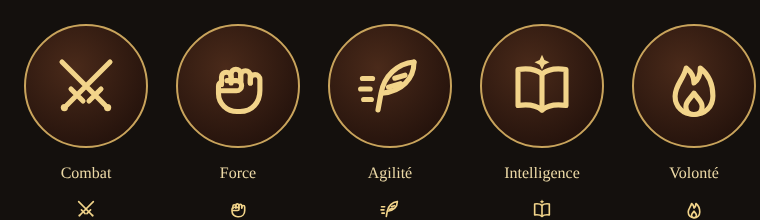
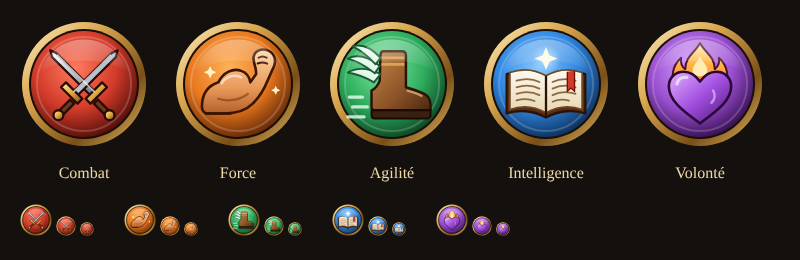
Emblèmes de caractéristiques en couleur (Combat rouge, Force orange, Agilité verte, Intelligence bleue, Volonté violette)
Médaillon doré + pictogramme détaillé (épées croisées, bras qui fait le biceps, botte ailée,
grimoire ouvert, cœur enflammé), toujours accompagné du nom : choix de dialogue, fenêtre de dé,
fiches des héros, montée de niveau, éditeur.

Claude-Session: https://claude.ai/code/session_01LRtr7vt3nEQikA3xZdRZbh

diff --git a/js/core/stat-icons.js b/js/core/stat-icons.js
@@ -1,0 +1,93 @@
+// Emblèmes colorés des caractéristiques : médaillon métallique + pictogramme détaillé, une couleur par stat.
+// statBadge('force', 28) → chaîne SVG autonome (dégradés à identifiants uniques).
+export const STAT_COLORS = {
+  combat:       { main: '#d23b2a', light: '#ff7a5e', dark: '#4a0b06', label: 'Combat' },
+  force:        { main: '#e8781e', light: '#ffb25a', dark: '#5a2204', label: 'Force' },
+  agilite:      { main: '#2fae5e', light: '#7be8a0', dark: '#08401f', label: 'Agilité' },
+  intelligence: { main: '#2f86e0', light: '#86c6ff', dark: '#0a2850', label: 'Intelligence' },
+  volonte:      { main: '#9a4fd0', light: '#d7a2ff', dark: '#2e0a48', label: 'Volonté' },
+};
+let uid = 0;
+
+/** Pictogrammes (viewBox 64×64, centre 32,32). u = préfixe unique des dégradés. */
+const ART = {
+  combat: u => `
+    <g stroke="#2a0a06" stroke-width="1.4" stroke-linejoin="round">
+      <path d="M15 13 L40 38 L37.5 40.5 L12.5 15.5 L11.5 11.5 Z" fill="url(#${u}steel)"/>
+      <path d="M49 13 L24 38 L26.5 40.5 L51.5 15.5 L52.5 11.5 Z" fill="url(#${u}steel)"/>
+      <path d="M33 41 L43 31 L46 34 L36 44 Z" fill="url(#${u}gold)"/>
+      <path d="M31 41 L21 31 L18 34 L28 44 Z" fill="url(#${u}gold)"/>
+      <path d="M40.5 41.5 L47 48 L44.5 50.5 L38 44 Z" fill="#6b3a1c"/>
+      <path d="M23.5 41.5 L17 48 L19.5 50.5 L26 44 Z" fill="#6b3a1c"/>
+      <circle cx="47.6" cy="51" r="3" fill="url(#${u}gold)"/><circle cx="16.4" cy="51" r="3" fill="url(#${u}gold)"/>
+    </g>
+    <path d="M15.5 14 L38.5 37" stroke="#fff" stroke-opacity=".7" stroke-width="1"/><path d="M48.5 14 L25.5 37" stroke="#fff" stroke-opacity=".7" stroke-width="1"/>`,
+  force: u => `
+    <path d="M10 46 C10 38 14 33 20 31 C23 25 29 22 34 24 C37 25 39 28 39.5 31 L43 26 C43.5 22 41 19 41.5 15.5 C42 12 46 10 50 11.5 C54 13 55.5 17 54 21 L50 30 C48 35 45 40 41 44 C37 48 31 50 24 50 L14 50 C11.8 50 10 48.4 10 46 Z"
+      fill="url(#${u}skin)" stroke="#3a1504" stroke-width="1.6" stroke-linejoin="round"/>
+    <path d="M22 31.5 C25 27 30 26 34 28" fill="none" stroke="#fff" stroke-opacity=".55" stroke-width="1.6" stroke-linecap="round"/>
+    <path d="M44.5 16 C46 15 48 15 49.5 16 M44 19.5 C45.8 18.6 48 18.7 49.8 19.6" fill="none" stroke="#3a1504" stroke-width="1.2" stroke-linecap="round"/>
+    <path d="M20 41 C26 43 33 42 38 38" fill="none" stroke="#7a3208" stroke-opacity=".55" stroke-width="1.4" stroke-linecap="round"/>
+    <path d="M12 50 h16" stroke="#3a1504" stroke-width="1.6"/>
+    <g fill="#fff4c8"><path d="M15 21 l1.2 2.6 2.6 1.2-2.6 1.2-1.2 2.6-1.2-2.6-2.6-1.2 2.6-1.2z"/><path d="M55 33 l.9 1.9 1.9.9-1.9.9-.9 1.9-.9-1.9-1.9-.9 1.9-.9z"/></g>`,
+  agilite: u => `
+    <g stroke-linecap="round" fill="none" stroke="#e8fff0" stroke-opacity=".8" stroke-width="2"><path d="M6 40 h8"/><path d="M8 46 h9"/><path d="M5 52 h10"/></g>
+    <path d="M27 12 h11 c1.5 0 2.5 1 2.5 2.5 V34 c3 1 9 2.5 12 4.5 c2.5 1.6 3 4.5 3 7 V48 H22 c-1.5 0-2.5-1-2.5-2.5 V36 c2-1 4-3 5-6 L25 14.5 C25 13 25.8 12 27 12 Z"
+      fill="url(#${u}leather)" stroke="#2a1408" stroke-width="1.5" stroke-linejoin="round"/>
+    <path d="M19.5 48 h36 v3 c0 1.2-1 2-2 2 h-32 c-1.2 0-2-.8-2-2 z" fill="#3a2010" stroke="#1a0a04" stroke-width="1.2"/>
+    <path d="M25.5 16 h14 M25.5 20 h14" stroke="#d9a35a" stroke-width="1.6"/>
+    <path d="M41 36 c3.5 1 7 2 9.5 3.5" fill="none" stroke="#ffd9a0" stroke-opacity=".6" stroke-width="1.2"/>
+    <g stroke="#1d5a34" stroke-width="1.2" stroke-linejoin="round">
+      <path d="M25 26 C17 22 10 22 5 25 C11 26 16 28 21 31 Z" fill="url(#${u}wing)"/>
+      <path d="M24.5 21 C17 15 10 14 5 16.5 C11 18 16 21 21.5 25.5 Z" fill="url(#${u}wing)"/>
+      <path d="M25 16 C19 9.5 13 7.5 8 9 C13 11.5 17.5 15 22 20 Z" fill="url(#${u}wing)"/>
+    </g>`,
+  intelligence: u => `
+    <circle cx="32" cy="17" r="9" fill="url(#${u}glow)"/>
+    <path d="M32 9.5 l2 5 5 2-5 2-2 5-2-5-5-2 5-2z" fill="#fffbe6"/>
+    <path d="M8 26 C15 23.5 24 24 32 28.5 C40 24 49 23.5 56 26 V50 C49 47.5 40 48 32 52.5 C24 48 15 47.5 8 50 Z" fill="#5b2f14" stroke="#2a1206" stroke-width="1.4" stroke-linejoin="round"/>
+    <path d="M10 25 C17 22.5 25 23 32 27 V49.5 C25 45.5 17 45 10 47.5 Z" fill="url(#${u}page)" stroke="#6b4a24" stroke-width="1"/>
+    <path d="M54 25 C47 22.5 39 23 32 27 V49.5 C39 45.5 47 45 54 47.5 Z" fill="url(#${u}page)" stroke="#6b4a24" stroke-width="1"/>
+    <g stroke="#8a6a44" stroke-width="1.1" stroke-linecap="round" fill="none">
+      <path d="M14 30 c5-1.5 10-1.2 14 .8 M14 34 c5-1.5 10-1.2 14 .8 M14 38 c5-1.5 10-1.2 14 .8 M14 42 c4-1.2 8-1 11 .4"/>
+    </g>
+    <g stroke="#8a6a44" stroke-width="1.1" stroke-linecap="round" fill="none"><path d="M36 30.8 c4-2 9-2.3 14-.8 M36 34.8 c4-2 9-2.3 14-.8 M36 38.8 c4-2 9-2.3 14-.8 M36 42.8 c3-1.4 7-1.6 10-.6"/></g>
+    <path d="M45 24.5 v12 l2.2-2 2.2 2 v-12.8" fill="#d23b2a" stroke="#6a1208" stroke-width=".8"/>
+    <path d="M32 27 V52.5" stroke="#2a1206" stroke-width="1.4"/>`,
+  volonte: u => `
+    <path d="M32 7 C35 13 41 15 41 23 C43.5 21 44 18.5 43.5 16 C49 21 50 28 47 33 L17 33 C14 28 15 21 20.5 16 C20 19 21 21.5 23 23 C23 15 29 13 32 7 Z" fill="url(#${u}fire)" stroke="#4a0f2a" stroke-width="1.2" stroke-linejoin="round"/>
+    <path d="M32 15 C33.5 19 37 20.5 36.5 25 C35 28 29 28 27.5 25 C27 21 30.5 19 32 15 Z" fill="#fff3c0" opacity=".9"/>
+    <path d="M32 56 C24 50 13 43 13 33.5 C13 28 17 24.5 22 24.5 C26 24.5 29.5 27 32 30.5 C34.5 27 38 24.5 42 24.5 C47 24.5 51 28 51 33.5 C51 43 40 50 32 56 Z" fill="url(#${u}heart)" stroke="#2a0838" stroke-width="1.6" stroke-linejoin="round"/>
+    <path d="M18 32 C18.5 29 21 27.5 24 28" fill="none" stroke="#fff" stroke-opacity=".6" stroke-width="2" stroke-linecap="round"/>
+    <path d="M40 36 C41.5 38.5 41 41.5 39 43.5" fill="none" stroke="#ffe6ff" stroke-opacity=".5" stroke-width="1.6" stroke-linecap="round"/>`,
+};
+
+/** Emblème complet : médaillon doré, fond coloré, pictogramme, reflet. */
+export function statBadge(stat, size = 24, { title = true } = {}) {
+  const c = STAT_COLORS[stat]; if (!c) return '';
+  const u = `sb${++uid}_`;
+  return `<svg class="stat-badge sb-${stat}" width="${size}" height="${size}" viewBox="0 0 64 64" role="img" aria-label="${c.label}" xmlns="http://www.w3.org/2000/svg">${title ? `<title>${c.label}</title>` : ''}
+  <defs>
+    <radialGradient id="${u}bg" cx="42%" cy="35%" r="70%"><stop offset="0" stop-color="${c.light}"/><stop offset=".55" stop-color="${c.main}"/><stop offset="1" stop-color="${c.dark}"/></radialGradient>
+    <linearGradient id="${u}rim" x1="0" y1="0" x2="1" y2="1"><stop offset="0" stop-color="#fff2c2"/><stop offset=".35" stop-color="#d9a64e"/><stop offset=".7" stop-color="#7a4f16"/><stop offset="1" stop-color="#e8c06a"/></linearGradient>
+    <linearGradient id="${u}steel" x1="0" y1="0" x2="1" y2="1"><stop offset="0" stop-color="#ffffff"/><stop offset=".5" stop-color="#b9c4cf"/><stop offset="1" stop-color="#5d6b78"/></linearGradient>
+    <linearGradient id="${u}gold" x1="0" y1="0" x2="1" y2="1"><stop offset="0" stop-color="#fff0b0"/><stop offset=".5" stop-color="#e0a83c"/><stop offset="1" stop-color="#7a4a10"/></linearGradient>
+    <linearGradient id="${u}skin" x1="0" y1="0" x2="0" y2="1"><stop offset="0" stop-color="#ffd2a0"/><stop offset=".6" stop-color="#e89a5a"/><stop offset="1" stop-color="#b4602a"/></linearGradient>
+    <linearGradient id="${u}leather" x1="0" y1="0" x2="1" y2="1"><stop offset="0" stop-color="#c88a4a"/><stop offset=".6" stop-color="#8a5226"/><stop offset="1" stop-color="#4a2810"/></linearGradient>
+    <linearGradient id="${u}wing" x1="1" y1="0" x2="0" y2="1"><stop offset="0" stop-color="#ffffff"/><stop offset="1" stop-color="#b8f0cc"/></linearGradient>
+    <linearGradient id="${u}page" x1="0" y1="0" x2="0" y2="1"><stop offset="0" stop-color="#fffaf0"/><stop offset="1" stop-color="#e8d6b0"/></linearGradient>
+    <radialGradient id="${u}glow"><stop offset="0" stop-color="#ffffff" stop-opacity=".95"/><stop offset=".5" stop-color="#9fd4ff" stop-opacity=".6"/><stop offset="1" stop-color="#9fd4ff" stop-opacity="0"/></radialGradient>
+    <linearGradient id="${u}fire" x1="0" y1="1" x2="0" y2="0"><stop offset="0" stop-color="#ff7a2a"/><stop offset=".5" stop-color="#ffb347"/><stop offset="1" stop-color="#fff0a0"/></linearGradient>
+    <linearGradient id="${u}heart" x1="0" y1="0" x2="1" y2="1"><stop offset="0" stop-color="#e2b2ff"/><stop offset=".5" stop-color="#a24fe0"/><stop offset="1" stop-color="#4a1470"/></linearGradient>
+    <linearGradient id="${u}gloss" x1="0" y1="0" x2="0" y2="1"><stop offset="0" stop-color="#fff" stop-opacity=".35"/><stop offset="1" stop-color="#fff" stop-opacity="0"/></linearGradient>
+  </defs>
+  <circle cx="32" cy="32" r="31" fill="url(#${u}rim)"/>
+  <circle cx="32" cy="32" r="27.5" fill="#1a0e06"/>
+  <circle cx="32" cy="32" r="26.5" fill="url(#${u}bg)"/>
+  <circle cx="32" cy="32" r="23.5" fill="none" stroke="#fff" stroke-opacity=".18" stroke-width="1"/>
+  <g transform="translate(32 32) scale(.82) translate(-32 -32)">${ART[stat](u)}</g>
+  <path d="M10 26 A23 23 0 0 1 54 26 A30 18 0 0 0 10 26 Z" fill="url(#${u}gloss)"/>
+</svg>`;
+}
+/** Emblème + nom (« comprendre direct ») */
+export const statChip = (stat, value = null, size = 20) => `<span class="stat-chip sc-${stat}" title="${STAT_COLORS[stat]?.label || stat}">${statBadge(stat, size, { title: false })}<b>${STAT_COLORS[stat]?.label || stat}</b>${value != null ? `<em>${value}</em>` : ''}</span>`;

diff --git a/js/core/ui.js b/js/core/ui.js
@@ -1,5 +1,6 @@
 // HUD commun : barre du haut, menu de test, toasts, FPS, barre de groupe, aide, chargement.
 import { STATS } from './stats.js';
+import { statBadge, statChip, STAT_COLORS } from './stat-icons.js';
 import { figureSVG } from './art.js';
 import { icon, ICON_NAMES } from './icons.js';
 const ic = n => (ICON_NAMES.includes(n) ? icon(n) : (n ?? ''));
@@ -170,7 +171,7 @@ export function createUI({ title, subtitle }) {
       return new Promise(res => {
         const $ = q => dice.querySelector(q);
         let t = null, u = null, done = false, spent = 0, chance = base, crit = 1;
-        $('.d100-label').textContent = label; $('.d100-detail').innerHTML = (stat && ICON_NAMES.includes(stat) ? icon(stat) + ' ' : '') + detail;
+        $('.d100-label').innerHTML = (STAT_COLORS[stat] ? statBadge(stat, 30) + ' ' : '') + `<span>${label}</span>`; $('.d100-detail').textContent = detail;
         dice.classList.toggle('noboost', !boosts);
         const setTarget = () => {
           chance = Math.min(95, base + spent * 10); crit = Math.max(1, Math.floor(chance / 5));
@@ -362,7 +363,7 @@ export function createUI({ title, subtitle }) {
       return new Promise(res => {
         modal.innerHTML = `<div class="lp-card lu-card" style="--c:${hero.color}"><div class="lu-head"><div class="pimg" style="--c:${hero.color}">${figureSVG(hero.kind, hero.color, { portrait: true })}</div>
           <div><h3>${hero.name} — niveau supérieur !</h3><small>Choisissez 1 amélioration (définitive pour la campagne).</small></div></div>
-          <h4>+5 % à une compétence</h4><div class="lu-row">${skills.map(k => `<button class="lp-act" data-k="${k.id}"><b>${ICON_NAMES.includes(k.id) ? icon(k.id) + ' ' : ''}${k.name}</b><small>${k.value} % → ${k.value + 5} %</small></button>`).join('')}</div>
+          <h4>+5 % à une compétence</h4><div class="lu-row">${skills.map(k => `<button class="lp-act" data-k="${k.id}"><b>${STAT_COLORS[k.id] ? statBadge(k.id, 22) + ' ' : ''}${k.name}</b><small>${k.value} % → ${k.value + 5} %</small></button>`).join('')}</div>
           <h4>ou un avantage</h4><div class="lp-list">${perks.map(p2 => `<button class="lp-act" data-p="${p2.id}"><span class="lp-ic">${icon('boost')}</span><span><b>${p2.name}</b><small>${p2.desc}</small></span></button>`).join('')}</div></div>`;
         modal.classList.add('open', 'wide');
         modal.querySelectorAll('[data-k]').forEach(b2 => b2.onclick = () => { modal.classList.remove('open', 'wide'); sfx.success(); res({ skill: b2.dataset.k }); });
@@ -399,8 +400,8 @@ export function createUI({ title, subtitle }) {
             <div class="ps-list">${heroes.map(hh => { const pr = progress[hh.id]; return `<button class="ps-hero ${sel.has(hh.id) ? 'on' : ''}" data-h="${hh.id}" style="--c:${hh.color}">
               <div class="pimg" style="--c:${hh.color}">${figureSVG(hh.kind, hh.color, { portrait: true })}</div>
               <b>${hh.name}${pr?.level > 1 ? ` <span class="lvl">niv. ${pr.level}</span>` : ''}</b><small>${hh.role}</small>
-              <span class="ps-stats">${icon('heart')} ${hh.hp} · ${icon('attack')} ${hh.skills.combat} % · ${icon('move')} ${hh.move}</span>
-              <span class="ps-stats ps-attrs">${Object.entries(STATS).map(([k, s]) => `<span title="${s.name}">${icon(k)} ${hh.skills[k] ?? '—'}</span>`).join('')}</span>
+              <span class="ps-stats">${icon('heart')} ${hh.hp} PV · ${statBadge('combat', 15)} ${hh.skills.combat} % · ${icon('move')} ${hh.move}</span>
+              <span class="ps-attrs">${Object.keys(STATS).map(k => statChip(k, hh.skills[k] ?? '—', 16)).join('')}</span>
               <span class="ps-talent">${hh.talent}</span></button>`; }).join('')}</div>
             <div class="ps-foot">
               <div class="segs">${Object.keys(glasBase).map(k => `<button data-d="${k}" class="${k === diff ? 'on' : ''}">${k[0].toUpperCase() + k.slice(1)}</button>`).join('')}</div>

diff --git a/js/editor/main.js b/js/editor/main.js
@@ -3,6 +3,7 @@ import { emptyLevel, LEVEL_FORMAT } from '../core/level.js';
 import { checkLevel, walk, KINDS, TEAMS } from '../core/level-check.js';
 import { STATS, DIFFICULTIES } from '../core/stats.js';
 import { HEROES } from '../core/heroes.js';
+import { statBadge, statChip } from '../core/stat-icons.js';
 import { DRAFT_KEY } from '../core/campaign.js';
 import { h, input, textarea, checkbox, select, field, row, btn, icoBtn, fieldFor, effectsEditor, condEditor, sideList, options, iconSelect, uniqueId, slug, IMAGES } from './fields.js';
 import { mapPanel } from './map.js';
@@ -196,7 +197,7 @@ function panelDialogues() {
   const who = [['narrator', 'Narrateur (ambiance)'], ['hero', 'Héros actif'], ...HEROES.map(x => [x.id, `${x.name} (héros)`]), ...L.cast.map(c => [c.id, c.name || c.id])];
   const nextSel = (o, k, label = 'Puis', empty = '(fin du dialogue)') => field(label, select(o[k] ?? '', nodeIds.map(n => [n, n]), v => { o[k] = v || null; changed(); }, { empty }));
   // test de stat : jet, effets de réussite / d'échec (récompense, malus…), puis suite propre à chaque issue ou suite commune
-  const testFields = (t, holder) => [row(field('Stat', select(t.stat, Object.entries(STATS).map(([k, v]) => [k, v.name]), v => { t.stat = v; changed(); })),
+  const testFields = (t, holder) => [row(h('label', { class: 'fld' }, h('span', { html: `Stat ${statBadge(t.stat, 18)}` }), select(t.stat, Object.entries(STATS).map(([k, v]) => [k, v.name]), v => { t.stat = v; changed(); render(); })),
       field('Difficulté', select(t.diff || 'normal', Object.entries(DIFFICULTIES).map(([k, v]) => [k, `${v.label} (${v.mod > 0 ? '+' : ''}${v.mod})`]), v => { t.diff = v; changed(); })),
       fieldFor('number', t, 'mod', ctx, 'Modif. %'), fieldFor('text', t, 'label', ctx, 'Intitulé du jet')),
     h('div', { class: 'tests2' },
@@ -322,7 +323,7 @@ function panelHelp() {
   <li><b>Dialogues</b> : nœuds de texte reliés entre eux ; un nœud se termine par une suite simple, des <b>choix</b>, ou un <b>test de stat</b> qui mène à deux nœuds (réussite / échec). Un choix peut aussi lancer les dés.</li>
   <li><b>Tester ▸</b> ouvre le niveau dans le jeu (onglet séparé, sans toucher à la campagne).</li>
   <li><b>Exporter</b> télécharge <code>&lt;id&gt;.json</code> : à placer dans <code>levels/</code> puis à ajouter à la campagne (<code>js/core/campaign.js</code>).</li></ol>
-  <h3>Tests de stat</h3><p>Réussite si D100 ≤ stat du héros actif + difficulté (Facile +20, Normal 0, Difficile −20, Héroïque −40) + modificateur. Les boosts ✦ ajoutent +10 chacun. Stats : ${Object.values(STATS).map(s => `<b>${s.name}</b> (${s.desc})`).join(', ')}.</p>
+  <h3>Tests de stat</h3><p>Réussite si D100 ≤ stat du héros actif + difficulté (Facile +20, Normal 0, Difficile −20, Héroïque −40) + modificateur. Les boosts ✦ ajoutent +10 chacun. </p><div class="stat-legend">${statChip('combat')} attaques ; ${Object.entries(STATS).map(([k, s]) => `<span>${statChip(k)} ${s.desc}</span>`).join('')}</div>
   <h3>Ce qu'on peut faire</h3><p>Effets rangés par catégorie : récit, dés et logique (test, si/sinon, hasard, fenêtre de choix, compteur), héros (boosts, soins, blessure, <b>bonus/malus de stat</b> pour le niveau ou permanent, poison/étourdi, XP, déplacement), objets et quêtes, carte (révéler, <b>déverrouiller une zone</b>, apparitions, départ d'un PNJ), partie (glas, limite de glas, victoire/défaite). Dans les textes, <code>{héros}</code> est remplacé par le nom du héros actif.</p>
   <h3>Drapeaux</h3><p>Mémoire du niveau : « Poser un drapeau » puis condition « Drapeau posé ». Leur nom est libre (ex. <code>pontOuvert</code>).</p>
   <p class="muted">Le travail est enregistré automatiquement dans ce navigateur. Exportez régulièrement pour garder une copie.</p>` });

diff --git a/css/play.css b/css/play.css
@@ -407,7 +407,6 @@ body.narrating #viewport { visibility: hidden; }
 .ps-tips { display: flex; align-items: center; gap: 6px; font-size: 14px; color: var(--text); cursor: pointer; }
 .ps-tips input { width: 18px; height: 18px; accent-color: #c9a45c; }
 .menu-foot .ver { display: block; text-align: center; color: var(--muted); font-size: 12px; margin-top: 6px; }
-.ps-attrs { display: flex; gap: 6px; flex-wrap: wrap; justify-content: center; font: 600 11px var(--head); letter-spacing: .03em; } .ps-attrs span { padding: 1px 5px; border: 1px solid var(--line); border-radius: 6px; color: var(--gold-hi); }
 
 /* Dialogue : texte d'ambiance (narrateur) et choix avec dés */
 .dialogue.narr { background: linear-gradient(180deg, rgba(44,34,22,.96), rgba(20,15,10,.97)); }
@@ -416,6 +415,12 @@ body.narrating #viewport { visibility: hidden; }
 .narr-ic { display: flex; align-items: center; justify-content: center; background: radial-gradient(circle at 40% 35%, #4a3a24, #1a120c); border: 2px solid var(--gold); border-radius: 50%; }
 .narr-ic svg { width: 55%; height: 55%; stroke: var(--gold-hi); fill: none; stroke-width: 1.6; stroke-linecap: round; stroke-linejoin: round; }
 .dlg-test { display: inline-block; font-style: normal !important; color: #9fd0ff !important; border: 1px solid rgba(111,179,255,.5); border-radius: 6px; padding: 0 5px; margin: 0 4px 2px 0; font-size: 12px !important; }
-.dlg-test .ic { width: 13px; height: 13px; vertical-align: -2px; }
-.d100-detail .ic { width: 16px; height: 16px; vertical-align: -3px; }
-.ps-attrs .ic { width: 12px; height: 12px; vertical-align: -1px; }
+/* Emblèmes de caractéristiques */
+.stat-badge { display: inline-block; vertical-align: middle; flex: none; filter: drop-shadow(0 1px 2px rgba(0,0,0,.6)); }
+.sc-combat { --sc: #d23b2a; } .sc-force { --sc: #e8781e; } .sc-agilite { --sc: #2fae5e; } .sc-intelligence { --sc: #2f86e0; } .sc-volonte { --sc: #9a4fd0; }
+.stat-chip { display: inline-flex; align-items: center; gap: 4px; padding: 1px 7px 1px 1px; border-radius: 12px; border: 1px solid var(--sc); background: color-mix(in srgb, var(--sc) 18%, transparent); font: 600 11px var(--body); color: #f4ead2; white-space: nowrap; }
+.stat-chip em { font-style: normal; font-family: var(--head); color: #fff; }
+.ps-attrs { display: flex; flex-wrap: wrap; gap: 4px; justify-content: center; margin: 3px 0; } .ps-attrs .stat-chip b { font-weight: 600; }
+.dlg-test { display: inline-flex !important; align-items: center; gap: 4px; border-color: var(--sc) !important; color: #fff !important; background: color-mix(in srgb, var(--sc) 25%, transparent); padding: 1px 7px 1px 1px !important; border-radius: 12px !important; }
+.d100-label { display: flex; align-items: center; gap: 8px; }
+.choice .dlg-test { align-self: flex-start; margin-bottom: 3px; font-size: 12px !important; font-weight: 600; }

diff --git a/index.html b/index.html
@@ -8,8 +8,8 @@
   <link rel="manifest" href="manifest.webmanifest">
   <link rel="icon" href="assets/icons/icon-192.png">
   <link rel="apple-touch-icon" href="assets/icons/icon-192.png">
-  <link rel="stylesheet" href="css/fonts.css?v=1795555412">
-  <link rel="stylesheet" href="css/hub.css?v=1795555412">
+  <link rel="stylesheet" href="css/fonts.css?v=1795556142">
+  <link rel="stylesheet" href="css/hub.css?v=1795556142">
 </head>
 <body>
   <div class="bg" id="bg"></div>
@@ -44,8 +44,8 @@
   </div>
   <div class="rotate-hint">Tournez l'appareil en paysage ⟲</div>
   <script type="module">
-    const BUILD = '1795555412';
-    import { ENGINES } from './js/core/engines-meta.js?v=1795555412';
+    const BUILD = '1795556142';
+    import { ENGINES } from './js/core/engines-meta.js?v=1795556142';
     const wrap = document.getElementById('cards'), bg = document.getElementById('bg');
     const setBg = url => { bg.style.opacity = 0; setTimeout(() => { bg.style.backgroundImage = `url('${url}')`; bg.style.opacity = 1; }, 250); };
     setBg(ENGINES[0].bg);
@@ -87,7 +87,7 @@
     const say = (t, ok) => { st.textContent = t; st.className = 'pwa-status ' + (ok ? 'ok' : 'ko'); };
     if (!window.isSecureContext) say('⚠ PWA indisponible : le site doit être servi en HTTPS', false);
     else if (!('serviceWorker' in navigator)) say('⚠ Navigateur sans service worker', false);
-    else import('./js/core/pwa.js?v=1795555412').then(({ registerPWA, consumeUpdatedFlag }) => {
+    else import('./js/core/pwa.js?v=1795556142').then(({ registerPWA, consumeUpdatedFlag }) => {
       registerPWA({ swUrl: 'sw.js?v=' + BUILD, onStatus: (s, e) => s === 'ready' ? say(consumeUpdatedFlag() ? '✓ Mis à jour · jouable hors-ligne' : '✓ À jour · jouable hors-ligne', true) : say('⚠ Service worker : ' + e?.message, false) });
     });
     const standalone = matchMedia('(display-mode: standalone), (display-mode: fullscreen)').matches || navigator.standalone;

diff --git a/js/core/level.js b/js/core/level.js
@@ -4,7 +4,7 @@
 // la même description sert à l'interpréteur ET aux formulaires de l'éditeur.
 import { HEROES } from './heroes.js';
 import { SKILL_NAMES, STATS, DIFFICULTIES } from './stats.js';
-import { icon } from './icons.js';
+import { statBadge } from './stat-icons.js';
 
 export const LEVEL_FORMAT = 1;
 
@@ -165,7 +165,7 @@ function activity(a) {
     need: a.need, cond: cond(a.cond), run: g => runEffects(a.effects, g) };
 }
 /** Étiquette d'un choix à dés : seulement la stat testée (« 🎲 Force ») — la difficulté se devine à la formulation */
-const testTag = t => `<small class="dlg-test">${icon(t.stat)} ${STATS[t.stat]?.name || t.stat}</small> `;
+const testTag = t => `<small class="dlg-test sc-${t.stat}">${statBadge(t.stat, 18, { title: false })} ${STATS[t.stat]?.name || t.stat}</small> `;
 /** Lance le test puis applique les effets de réussite / d'échec ; renvoie le résultat */
 async function rollTest(t, g, ctx) {
   const ok = await g.test(t.stat, t.label || STATS[t.stat]?.name, +t.mod || 0, t.diff || 'normal');

diff --git a/play.html b/play.html
@@ -10,8 +10,8 @@
   <link rel="manifest" href="manifest.webmanifest">
   <link rel="icon" href="assets/icons/icon-192.png">
   <link rel="apple-touch-icon" href="assets/icons/icon-192.png">
-  <link rel="stylesheet" href="css/fonts.css?v=1795555412">
-  <link rel="stylesheet" href="css/play.css?v=1795555412">
+  <link rel="stylesheet" href="css/fonts.css?v=1795556142">
+  <link rel="stylesheet" href="css/play.css?v=1795556142">
   <script type="importmap">
   { "imports": { "three": "./vendor/three/build/three.module.js", "three/addons/": "./vendor/three/examples/jsm/" } }
   </script>
@@ -19,7 +19,7 @@
 <body>
   <div id="viewport"></div>
   <div id="hud"></div>
-  <script type="module" src="js/main.js?v=1795555412"></script>
+  <script type="module" src="js/main.js?v=1795556142"></script>
   <script>
     // Garde-fou : si les scripts chargés sont plus vieux que ceux du serveur (cache du navigateur), on répare.
     setTimeout(async () => {

diff --git a/css/editor.css b/css/editor.css
@@ -77,3 +77,7 @@ details.card > summary b { font: 500 15px var(--head); color: var(--gold-hi); } 
 @media (max-width: 1100px) { .tests2 { grid-template-columns: 1fr; } }
 .opt-ed { border: 1px dashed #4a3a2a; border-radius: 8px; padding: 6px 10px; margin: 6px 0; }
 optgroup { color: var(--gold); font-style: normal; } option { color: var(--text); }
+.stat-badge { display: inline-block; vertical-align: middle; } .fld > span .stat-badge { margin-left: 4px; vertical-align: -4px; }
+.sc-combat { --sc: #d23b2a; } .sc-force { --sc: #e8781e; } .sc-agilite { --sc: #2fae5e; } .sc-intelligence { --sc: #2f86e0; } .sc-volonte { --sc: #9a4fd0; }
+.stat-chip { display: inline-flex; align-items: center; gap: 4px; padding: 1px 8px 1px 1px; border-radius: 12px; border: 1px solid var(--sc); background: color-mix(in srgb, var(--sc) 18%, transparent); font-weight: 600; }
+.stat-legend { display: flex; flex-direction: column; gap: 6px; margin: 8px 0; }

diff --git a/sw.js b/sw.js
@@ -3,7 +3,7 @@
 //  • Assets lourds (modèles, textures, HDRI, polices) : cache d'abord + rafraîchissement en arrière-plan.
 //  • Le navigateur vérifie sw.js à chaque visite (updateViaCache: 'none') ; nouvelle version = activée
 //    immédiatement et la page se recharge toute seule. Aucune réinstallation nécessaire.
-const VERSION = 'grimoire-1795555412';
+const VERSION = 'grimoire-1795556142';
 const PRECACHE = [
 "./",
 "assets/bg/painting1.jpg",
@@ -73,6 +73,7 @@ const PRECACHE = [
 "js/core/scenario.js",
 "js/core/settings.js",
 "js/core/sfx.js",
+"js/core/stat-icons.js",
 "js/core/stats.js",
 "js/core/terrains.js",
 "js/core/tween.js",

diff --git a/js/version.js b/js/version.js
@@ -1,2 +1,2 @@
 // Mis à jour par tools/build-sw.py à chaque préparation de déploiement
-export const VERSION = '2026-11-24 21:23';
+export const VERSION = '2026-11-24 21:35';
